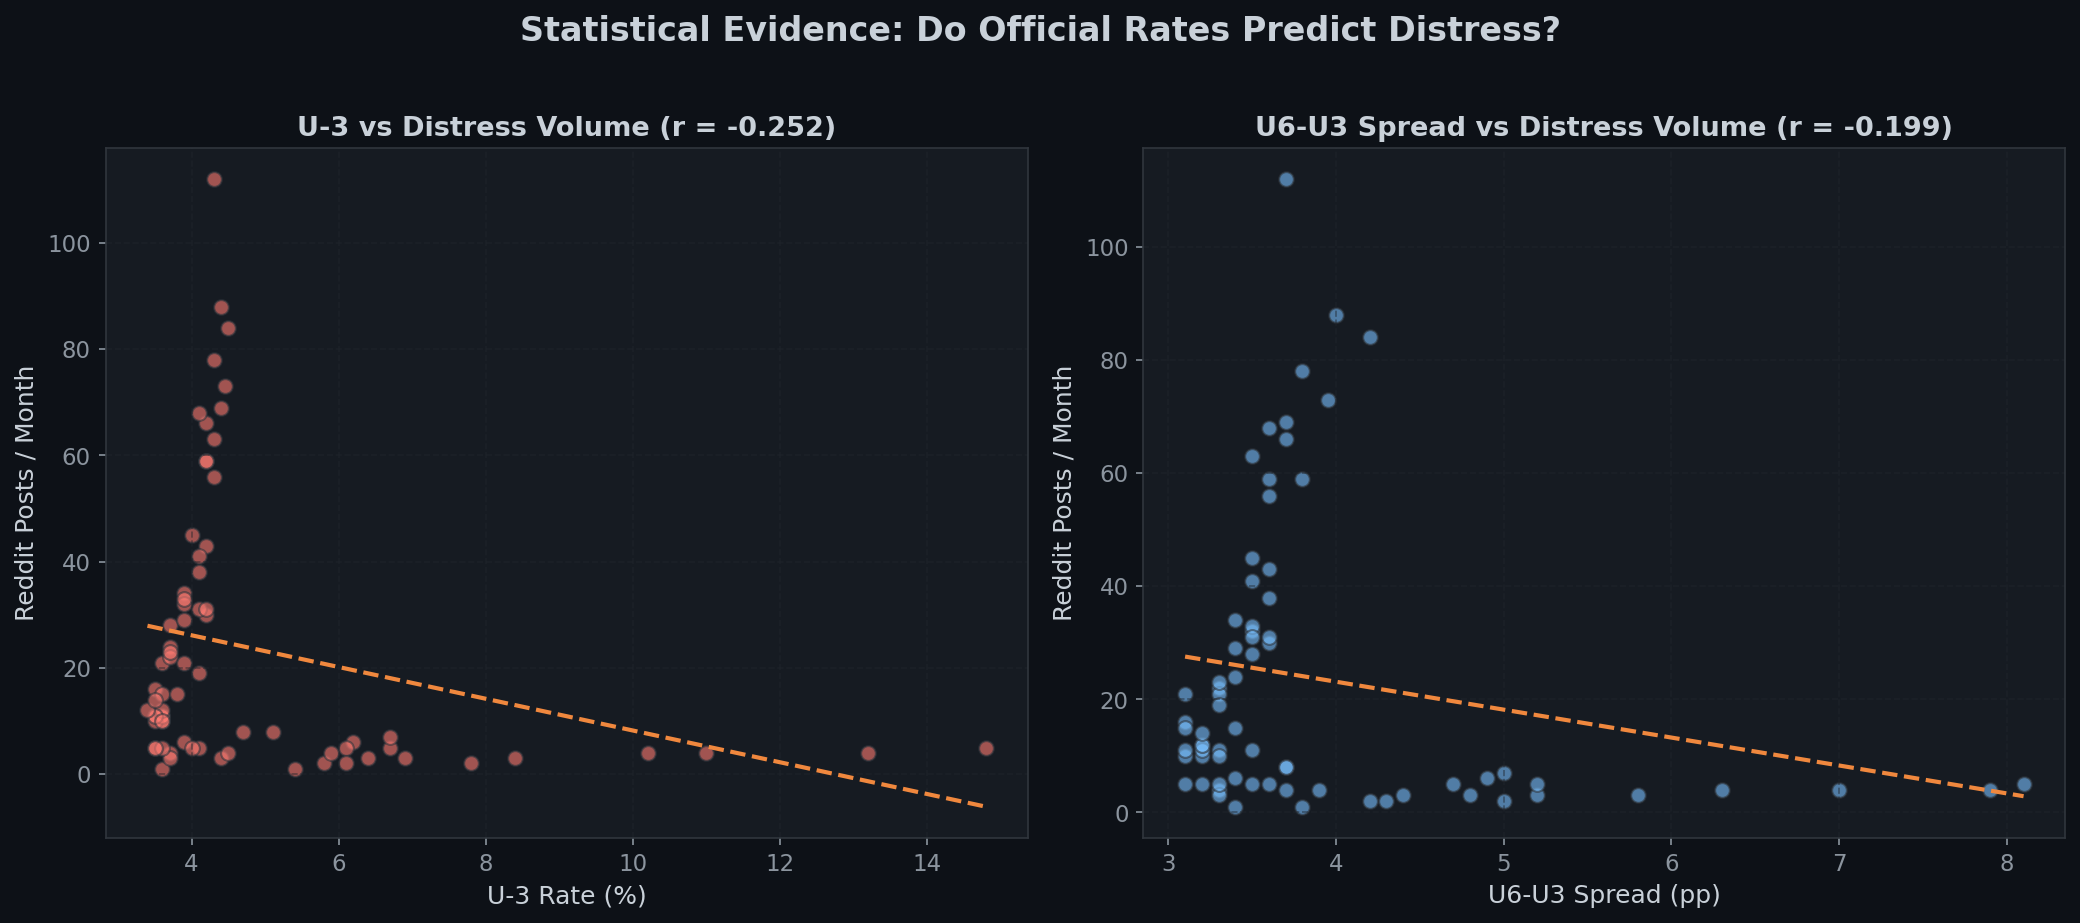
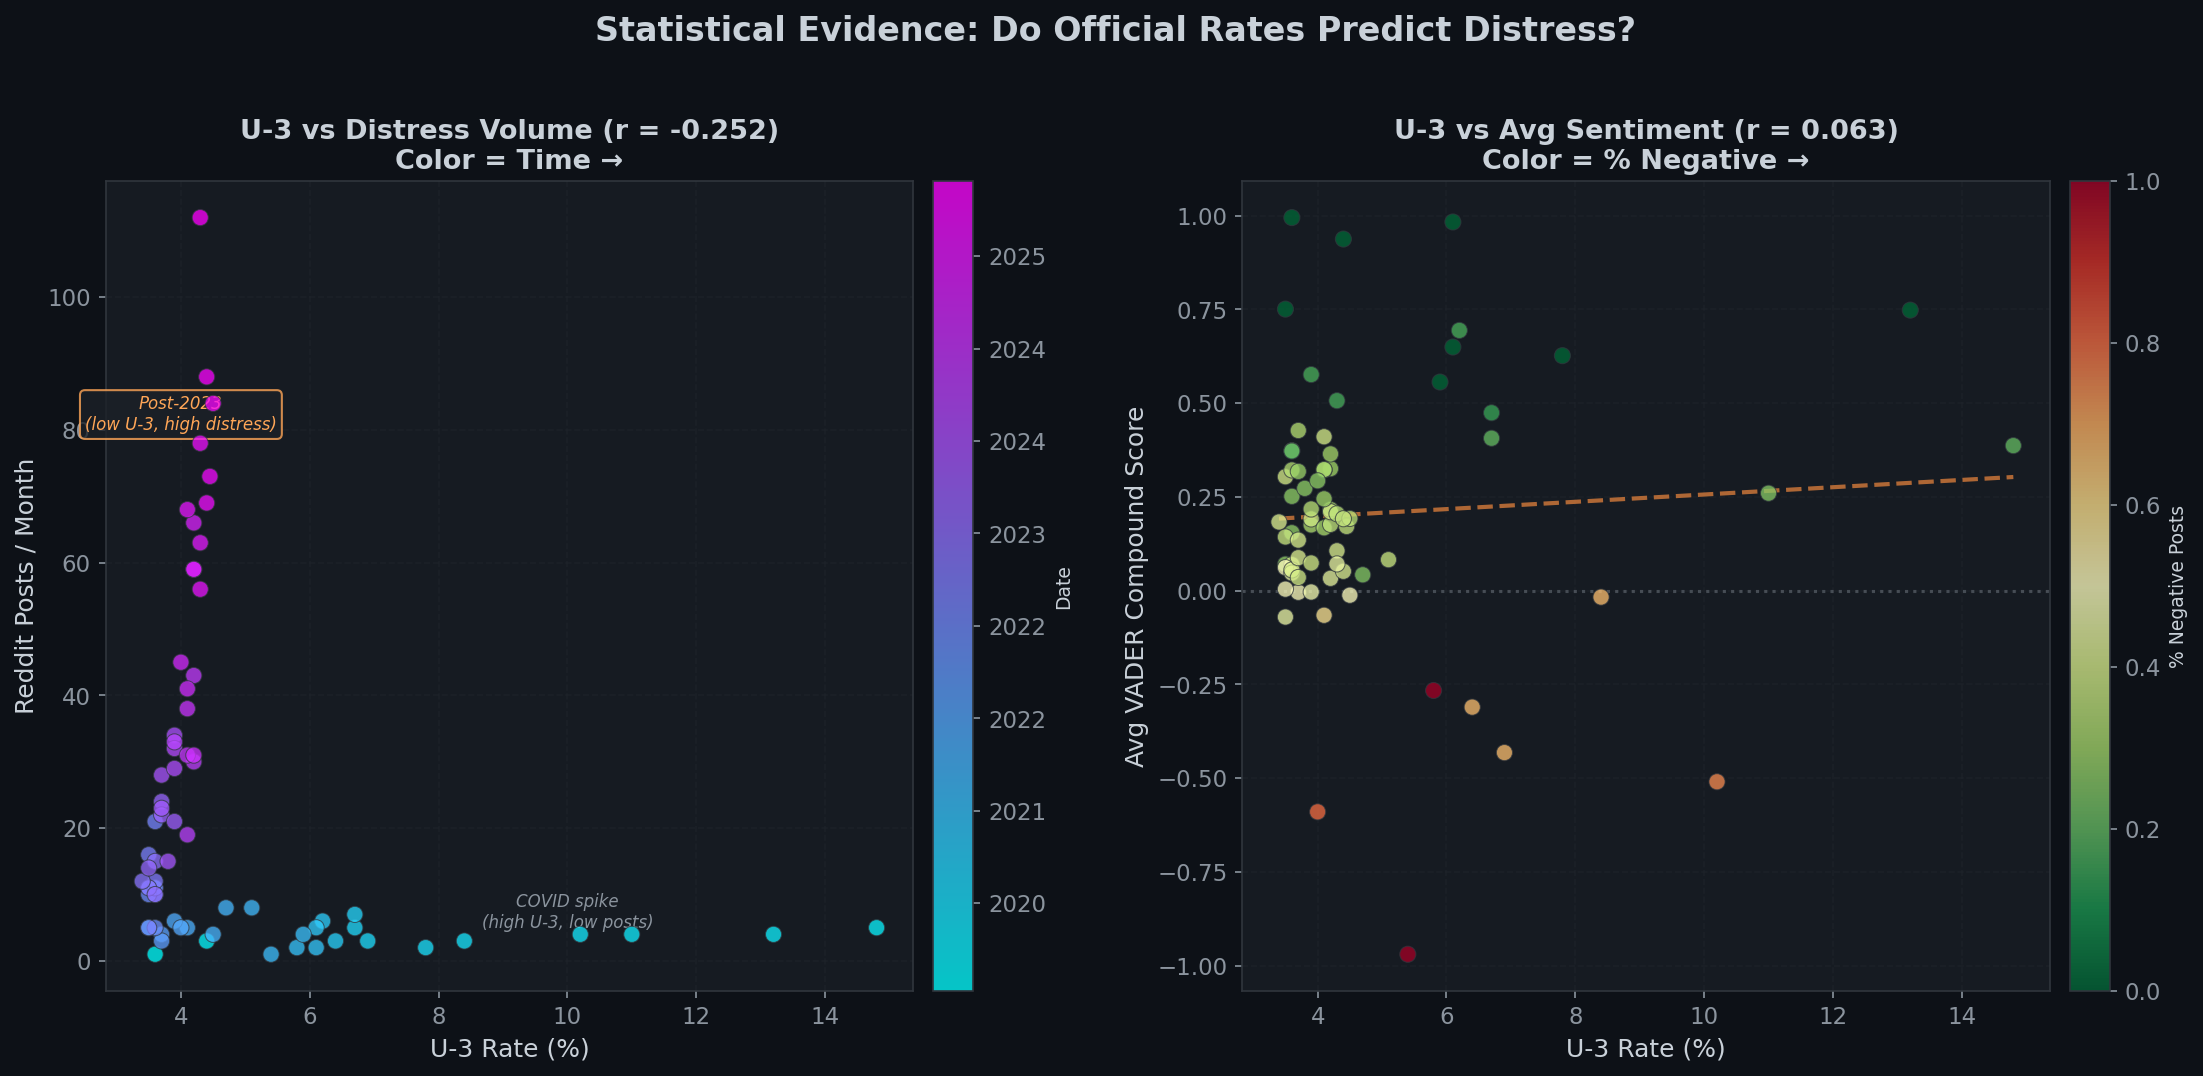
fix: redesign Plot 7 + update README with audit corrections
- Redesigned Plot 7: replaced duplicate U6-U3 scatter with time-colored
  U-3 vs volume (exposes COVID confound) and U-3 vs sentiment
- Updated all stale values in README:
  - Post count: 3,919 → 1,700 (year-balanced re-scrape)
  - All 8 correlation values refreshed from new data
  - U6-U3 spread: 3.3-3.7pp → 3.0-4.0pp (mean 3.9pp)
  - Finding 7 rewritten for time-colored scatter
  - Search terms: 12 → 12 queried, 5 effective
  - Conclusion rewritten with updated statistics

diff --git a/README.md b/README.md
@@ -19,7 +19,7 @@ Official unemployment metrics (U-3) understate the true severity of labor market
 
 ### Finding 1: The Core Gap Is Real
 
-From **2022 onward**, U-3 and U-6 flatten near historic lows (~3.5% and ~7%), yet Reddit distress posts **surge exponentially** — from ~10/month in 2021 to **263/month by late 2025**. The correlation between U-3 and distress volume is **negative** (r = −0.264): as official rates go *down*, distress goes *up*.
+From **2022 onward**, U-3 and U-6 flatten near historic lows (~3.5% and ~7%), yet Reddit distress posts **surge exponentially** — from ~1/month in early 2020 to **112/month by January 2026**. The correlation between U-3 and distress volume is **negative** (r = −0.252): as official rates go *down*, distress goes *up*.
 
 ### Finding 2: Youth Unemployment Diverges from the Headline
 
@@ -27,7 +27,7 @@ After the COVID recovery, U-3 settles around 3.5–4%, but youth unemployment (A
 
 ### Finding 3: The "Hidden Unemployed" Are Persistent
 
-The U6–U3 spread (measuring discouraged workers and involuntary part-timers excluded from the headline rate) hovers around **3.3–3.7 percentage points** throughout 2022–2026, representing ~3.5% of the labor force that is effectively unemployed but not counted. This spread has been *rising slightly* since 2024 even as U-3 stays flat.
+The U6–U3 spread (measuring discouraged workers and involuntary part-timers excluded from the headline rate) hovers around **3.0–4.0 percentage points** throughout 2022–2026 (mean 3.9pp), representing a persistent segment of the labor force that is effectively unemployed but not counted. This spread has been *rising slightly* since 2024 even as U-3 stays flat.
 
 ### Finding 4: Sentiment Is Deteriorating Over Time
 
@@ -35,28 +35,28 @@ VADER compound scores show a **downward trend** from 2020 to 2026. Average month
 
 ### Finding 5: Distress Is Broad-Based, Not Isolated
 
-All four subreddits light up simultaneously from late 2023 onward. Search terms are remarkably evenly distributed (255–385 posts each), meaning distress isn't driven by a single type of complaint — layoffs, ghosting, overqualification, hiring freezes, and the "hundreds of applications" phenomenon are all co-occurring.
+All four subreddits light up simultaneously from late 2023 onward. The five most effective search terms are remarkably evenly distributed (328–364 posts each), meaning distress isn't driven by a single type of complaint — entry-level experience paradoxes, job market frustration, cost of living concerns, hiring freezes, and the "hundreds of applications" phenomenon are all co-occurring.
 
 ### Finding 6: Structural Degree–Job Mismatch Exists
 
 ~7.5 million people aged 25–39 hold Science & Engineering degrees, but the matching employment sectors don't absorb them all. The largest hiring industries are healthcare and education services — not the STEM-adjacent industries these degrees target.
 
-### Finding 7: Two Regimes in the Scatter Plot
+### Finding 7: Two Regimes — Time-Colored Scatter Reveals Confound
 
-When U-3 was high (COVID, 8–14%), distress volume was paradoxically low. When U-3 sits at its lowest (3.5–4.5%), distress volume is at its **highest** (100–263 posts/month). This L-shaped pattern is the gap in its starkest statistical form.
+Plotting U-3 vs. distress volume with **time-colored points** (Plot 7, left) reveals two distinct regimes: during COVID (2020, cyan points), U-3 spiked to 8–14% but post volume was low (subreddits were small). Post-2023 (magenta points), U-3 sits at 3.5–4.5% while distress volume surges. The near-zero correlation between U-3 and **average sentiment** (r = +0.063, Plot 7, right) confirms that official unemployment explains almost none of the variance in public mood — the core "Reality Gap" thesis.
 
 ### Correlation Summary
 
 | Variable | vs Post Volume | vs Avg Sentiment |
 |----------|---------------|-----------------|
-| UNRATE (U-3) | r = −0.264 | r = +0.261 |
-| U6RATE | r = −0.249 | r = +0.265 |
-| CIVPART | r = +0.395 | r = −0.319 |
-| Distress Index | r = +0.991 | r = −0.167 |
+| UNRATE (U-3) | r = −0.252 | r = +0.063 |
+| U6RATE | r = −0.236 | r = +0.077 |
+| CIVPART | r = +0.380 | r = −0.018 |
+| Distress Index | r = +0.969 | r = −0.146 |
 
 ### Conclusion
 
-> The U-3 Unemployment Rate is failing as a measure of labor market health for entry-level and white-collar workers. From 2022–2026, while headline unemployment sits near historic lows, public distress has surged exponentially. The negative correlation between official rates and distress volume, the persistent U6–U3 spread, the deteriorating sentiment trajectory, and the structural degree–job mismatch all point to a **"silent recession"** that official statistics are not designed to capture.
+> The U-3 Unemployment Rate is failing as a measure of labor market health for entry-level and white-collar workers. From 2022–2026, while headline unemployment sits near historic lows, public distress has surged. The near-zero correlation between official rates and public sentiment (r ≈ 0.06), the persistent U6–U3 spread (~3.9pp), the deteriorating sentiment trajectory, and the structural degree–job mismatch all point to a **"silent recession"** that official statistics are not designed to capture.
 
 ---
 
@@ -88,7 +88,7 @@ When U-3 was high (COVID, 8–14%), distress volume was paradoxically low. When 
 | `r/recruitinghell` | Systemic failures in hiring — "100+ applications, 0 responses" |
 | `r/csMajors` | Tech-specific recession signal — CS degree holders struggling |
 
-**Search Terms** (12): `layoff`, `unemployed`, `severance`, `ghosted`, `hundred applications`, `hiring freeze`, `overqualified`, `entry level experience`, `no response`, `job market`, `recession`, `cost of living`
+**Search Terms** (12 queried, 5 effective): `entry level experience`, `job market`, `hundred applications`, `hiring freeze`, `cost of living` — plus 7 others queried but yielding no unique results: `layoff`, `unemployed`, `severance`, `ghosted`, `overqualified`, `no response`, `recession`
 
 **Time-Balanced Scraping**: Reddit's API is biased toward recent, high-engagement content. Without intervention, a search for "layoff" with `time_filter="all"` returns mostly 2024–2025 posts. To fix this, we iterate **year-by-year** using CloudSearch timestamp syntax (e.g., `"layoff timestamp:1577836800..1609459200"`), which forces Reddit to return the top posts *per year*. This produces 7 years × 4 subreddits × 12 terms = **336 queries** and a substantially more balanced temporal distribution.
 
@@ -101,7 +101,7 @@ STAT 5243/
 ├── data/
 │   ├── df_official.csv                  # Task A: FRED time-series (73 months × 5 series)
 │   ├── df_census_degree_mismatch.csv    # Task B: Census ACS snapshot (94 rows)
-│   ├── df_reddit_sentiment.csv          # Task C: 3,919 Reddit posts (primary)
+│   ├── df_reddit_sentiment.csv          # Task C: 1,700 Reddit posts (primary)
 │   ├── df_reddit_sentiment.parquet      # Task C: compressed backup
 │   ├── df_merged_features.csv           # EDA: merged monthly time-series (73 × 30 cols)
 │   ├── df_reddit_scored.csv             # EDA: Reddit posts with VADER sentiment scores
@@ -112,7 +112,7 @@ STAT 5243/
 │       ├── 04_heatmap.png              # Subreddit × month activity heatmap
 │       ├── 05_search_terms.png          # Distress keyword frequency
 │       ├── 06_sentiment_timeseries.png  # VADER compound + % negative over time
-│       ├── 07_correlation_scatter.png   # U-3 and U6-U3 spread vs distress volume
+│       ├── 07_correlation_scatter.png   # Time-colored U-3 vs volume + U-3 vs sentiment
 │       └── 08_census_mismatch.png       # Degrees earned vs industry employment
 ├── task_a_official_baseline.py          # FRED API extraction
 ├── task_b_census_demographics.py        # Census ACS extraction
